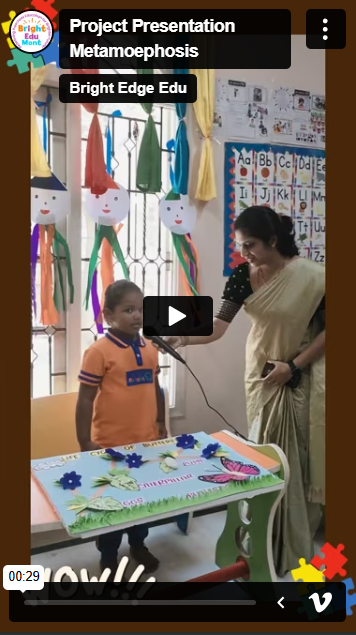
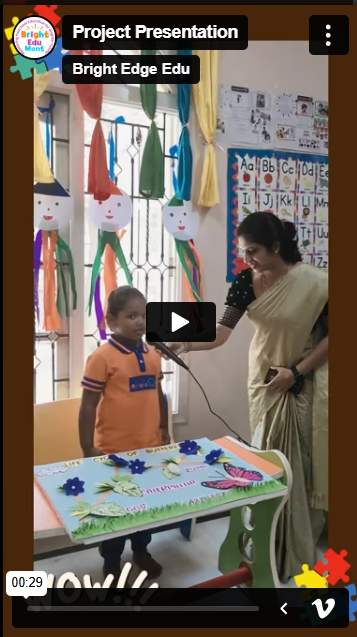
changed the second video in our video gallery

diff --git a/schools/bright-kid-best-preschool-in-kattigenahalli-bagalur-main-road.html b/schools/bright-kid-best-preschool-in-kattigenahalli-bagalur-main-road.html
@@ -1232,7 +1232,7 @@
             <div class="row">
                 <div class="col-lg-12 text-center justify-content-center">
                     <h2 class="kid_title">
-                        <span class="title_overlay_effect">Bright Kid Kattigenahalli Video Gallery</span>
+                        <span class="title_overlay_effect">Our Video Gallery</span>
                     </h2>
                 </div>
                 <div class="">
